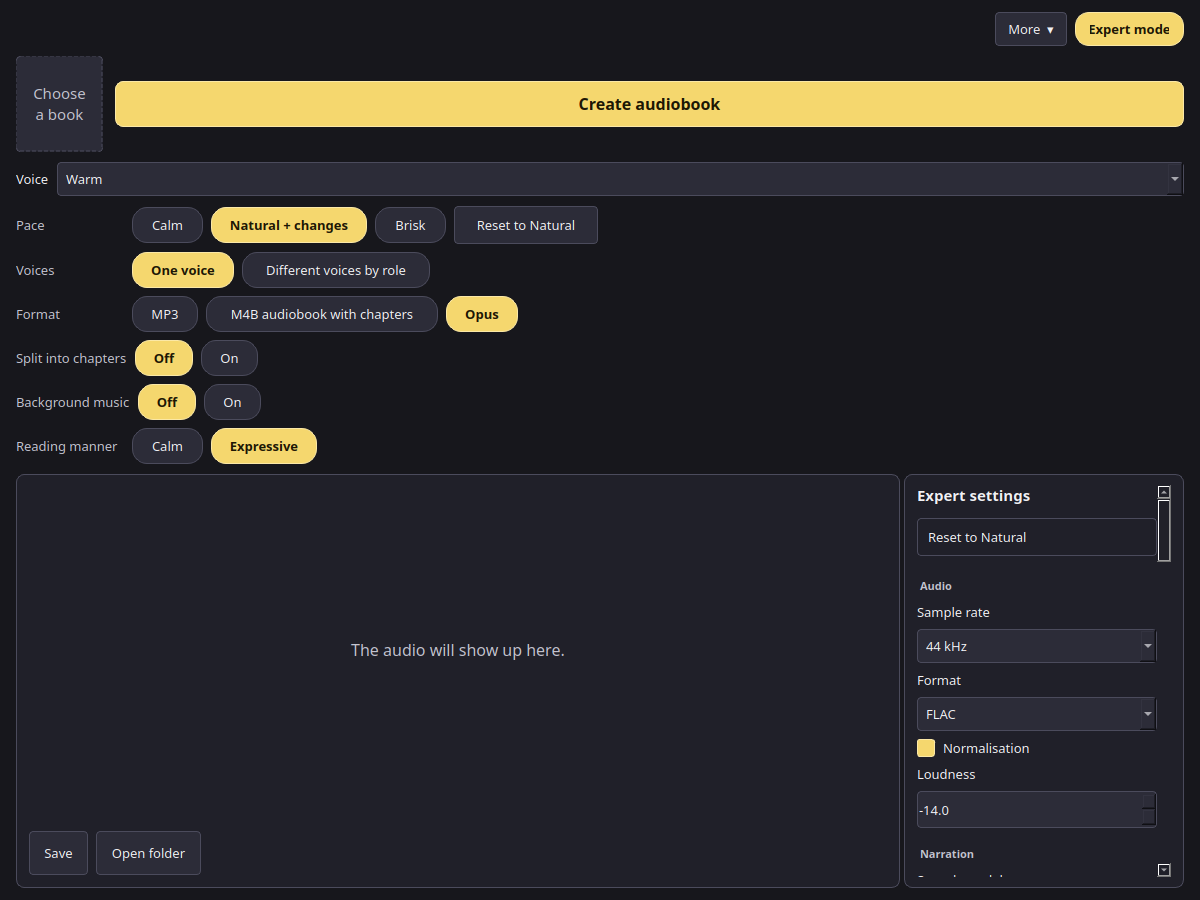
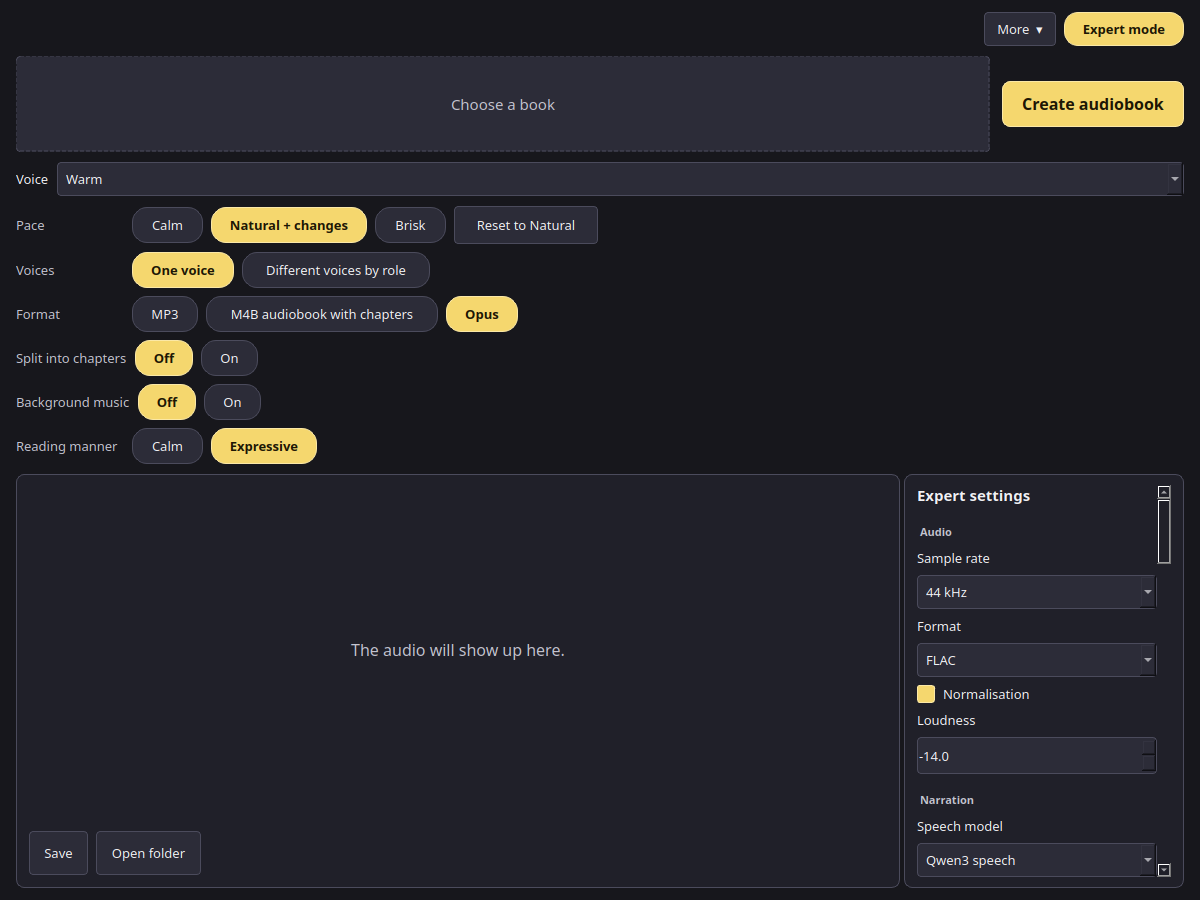
Keep the voice list, book drop, and expert toggle fully visible.
The simple voice list stays as wide as its row, the book drop keeps one line, and the expert toggle is sized for its bold label. The expert panel keeps the pace reset and pads its scrollbar. The voice name sits in the consent group.

Changed region(s): [[0.0308, 0.0, 0.9867, 0.1867], [0.74, 0.5911, 0.8633, 0.9644]]

diff --git a/ui/shell_window.py b/ui/shell_window.py
@@ -22,6 +22,7 @@ from PySide6.QtWidgets import (
     QComboBox,
     QHBoxLayout,
     QLabel,
+    QLayout,
     QPushButton,
     QScrollArea,
     QSizePolicy,
@@ -55,10 +56,42 @@ MISSING_SHELL_API = ("set_voices", "input_path", "open_page", "pause")
 # Chip stylesheet padding is 14 px on each side. See QPushButton[chip="true"].
 _CHIP_PAD_X = 14
 _HISTORY_HEIGHT = 104
+_EXPERT_SCROLL_PAD = 18
+_DROP_TEXT_PX = 15
+_DROP_PAD_X = 16
 _EXPORT_SOURCES = ("narr.container", "narr.split_chapters", "narr.file")
 _EXPORT_ROWS = ("format", "chapters")
 
 _CATALOGS = Path(__file__).resolve().parent.parent / "locales" / "shell"
+
+
+def _layout_holding(layout: QLayout | None, widget: QWidget) -> QLayout | None:
+    """Return the nested box that contains ``widget``."""
+    if layout is None:
+        return None
+    for index in range(layout.count()):
+        item = layout.itemAt(index)
+        if item is None:
+            continue
+        if item.widget() is widget:
+            return layout
+        found = _layout_holding(item.layout(), widget)
+        if found is not None:
+            return found
+    return None
+
+
+def _remove_empty_layouts(layout: QLayout) -> None:
+    """Drop a box that no longer holds a widget. An empty voice row caps the book column."""
+    index = 0
+    while index < layout.count():
+        item = layout.itemAt(index)
+        sub = None if item is None else item.layout()
+        if sub is not None and sub.count() == 0:
+            layout.takeAt(index)
+            sub.deleteLater()
+            continue
+        index += 1
 
 
 class _Allow:
@@ -205,8 +238,14 @@ class AudiobookShell:
             self._fit_pills()
             self._fit_history()
             self._lift_voice()
+            self._fit_source_row()
             self._restack_expert()
             self._activate_voice()
+            self._hide_panel_resets()
+            QApplication.sendPostedEvents()
+            form = self.screen.root.findChild(QWidget, "expertForm")
+            if form is not None:
+                self._fill_expert_width(form)
         finally:
             self._painting = False
 
@@ -254,8 +293,15 @@ class AudiobookShell:
             if setting_id in _EXPORT_SOURCES:
                 self.screen._paint_expert()
 
+        refresh_resets = self.screen._refresh_resets
+
+        def refresh_and_hide() -> None:
+            refresh_resets()
+            self._hide_panel_resets()
+
         self.screen.set_expert = show_expert
         self.screen._on_expert_edit = on_expert_edit
+        self.screen._refresh_resets = refresh_and_hide
 
     def _adopt_saved_file(self) -> None:
         """Point the chips at a saved file when that file is one the chips can name."""
@@ -338,9 +384,70 @@ class AudiobookShell:
         layout.insertWidget(2, row)
 
     def _activate_voice(self) -> None:
+        """Hold the voice list to the free width of its row, and release that width when the window shrinks."""
         row = self.screen.root.findChild(QWidget, "voiceRow")
-        if row is not None and row.layout() is not None:
-            row.layout().activate()
+        if row is None or row.layout() is None:
+            return
+        layout = row.layout()
+        layout.activate()
+        voice = row.findChild(QComboBox, "voicePicker")
+        label = row.findChild(QLabel, "voiceLabel")
+        if voice is None:
+            return
+        label_width = 0 if label is None else label.sizeHint().width()
+        margins = layout.contentsMargins()
+        available = row.width() - label_width - layout.spacing() - margins.left() - margins.right()
+        if available < 80:
+            return
+        voice.setMaximumWidth(16777215)
+        voice.setMinimumWidth(available)
+        layout.activate()
+
+    def _fit_source_row(self) -> None:
+        """Give the book drop one line of text and the spare width beside Create audiobook."""
+        root = self.screen.root
+        drop = root.findChild(QLabel, "fileDrop")
+        if drop is None or root.layout() is None:
+            return
+        column = _layout_holding(root.layout(), drop)
+        if column is not None:
+            _remove_empty_layouts(column)
+            column.setSizeConstraint(QLayout.SizeConstraint.SetNoConstraint)
+            column.invalidate()
+        drop.setWordWrap(False)
+        font = QFont(drop.font())
+        font.setPixelSize(_DROP_TEXT_PX)
+        advance = QFontMetrics(font).horizontalAdvance(drop.text())
+        density = load_tokens().density
+        text_width = advance + _DROP_PAD_X * 2 + density.border_px * 2
+        button = root.findChild(QPushButton, "generate")
+        button_width = 148
+        if button is not None:
+            label = QFont(button.font())
+            label.setPixelSize(16)
+            label.setWeight(QFont.Weight.DemiBold)
+            button_width = max(QFontMetrics(label).horizontalAdvance(button.text()) + 40, 148)
+            button.setMinimumWidth(button_width)
+            button.setMaximumWidth(button_width)
+            policy = button.sizePolicy()
+            policy.setHorizontalPolicy(QSizePolicy.Policy.Maximum)
+            button.setSizePolicy(policy)
+        room = root.width() - button_width - 48
+        wanted = max(text_width, int(root.width() * 0.40))
+        if room >= text_width:
+            wanted = min(wanted, room)
+        drop.setMaximumWidth(16777215)
+        drop.setMinimumWidth(max(wanted, text_width))
+        drop.setSizePolicy(QSizePolicy.Policy.Expanding, QSizePolicy.Policy.Preferred)
+        root.layout().activate()
+
+    def _hide_panel_resets(self) -> None:
+        """Keep the one reset that already sits beside the pace chips."""
+        host = self.screen.root.findChild(QWidget, "expertResets")
+        if host is None:
+            return
+        host.hide()
+        host.setMaximumHeight(0)
 
     def _restack_expert(self) -> None:
         """One label, then one control, in each expert row, inside the scroll panel."""
@@ -376,6 +483,7 @@ class AudiobookShell:
                 layout.insertWidget(index, widget)
                 index += 1
         layout.setSpacing(8)
+        layout.setContentsMargins(0, 0, _EXPERT_SCROLL_PAD, 0)
         if form.width() < 80:
             form.resize(240, max(form.height(), 1))
         policy = form.sizePolicy()
@@ -393,6 +501,7 @@ class AudiobookShell:
         if hint > 0:
             form.setMinimumHeight(hint)
         self._watch_expert_width(form)
+        self._fill_expert_width(form)
         layout.activate()
         form.updateGeometry()
 
@@ -417,7 +526,10 @@ class AudiobookShell:
         layout = form.layout()
         if layout is None or form.width() < 40:
             return
-        width = form.width()
+        margins = layout.contentsMargins()
+        width = form.width() - margins.left() - margins.right()
+        if width < 40:
+            return
         for index in range(layout.count()):
             item = layout.itemAt(index)
             widget = None if item is None else item.widget()
@@ -425,6 +537,7 @@ class AudiobookShell:
                 continue
             widget.setMaximumWidth(16777215)
             widget.setMinimumWidth(width)
+            widget.setMaximumWidth(width)
             widget.setSizePolicy(QSizePolicy.Policy.Expanding, widget.sizePolicy().verticalPolicy())
         layout.activate()
 
@@ -432,7 +545,8 @@ class AudiobookShell:
         density = load_tokens().density
         pad = _CHIP_PAD_X * 2 + density.border_px * 2 + 8
         for button in self.screen.root.findChildren(QPushButton):
-            if button.property("chip") != "true" and not str(button.objectName()).startswith("reset-"):
+            name = str(button.objectName())
+            if button.property("chip") != "true" and not name.startswith("reset-") and name != "expertToggle":
                 continue
             text = button.text()
             if not text:
@@ -442,6 +556,9 @@ class AudiobookShell:
             font.setWeight(QFont.Weight.DemiBold)
             advance = QFontMetrics(font).horizontalAdvance(text)
             button.setMinimumWidth(max(advance + pad, 36))
+            hint = button.sizeHint().width()
+            if hint > button.minimumWidth():
+                button.setMinimumWidth(hint)
 
     def _fit_history(self) -> None:
         strip = self.screen.root.findChild(QScrollArea, "historyStrip")

diff --git a/tests/test_shell_window.py b/tests/test_shell_window.py
@@ -362,6 +362,39 @@ def _sibling_overlaps(root: QWidget) -> list[tuple[str, str, QRect]]:
     return hits
 
 
+def _assert_labels_fit(root: QWidget, language: str, width: int, mode: str) -> None:
+    density = load_tokens().density
+    pad = 14 * 2 + density.border_px * 2 + 8
+    for button in root.findChildren(QPushButton):
+        name = button.objectName()
+        chip = button.property("chip") == "true" or name.startswith("reset-") or name == "expertToggle"
+        if not chip or not button.isVisible() or not button.text():
+            continue
+        assert button.width() + 1 >= button.sizeHint().width(), (
+            language, width, mode, name, button.text(), button.width(), button.sizeHint().width(),
+        )
+        font = QFont(button.font())
+        font.setPixelSize(density.body_px)
+        font.setWeight(QFont.Weight.DemiBold)
+        needed = QFontMetrics(font).horizontalAdvance(button.text()) + pad
+        assert button.width() >= needed, (language, width, mode, name, button.text(), button.width(), needed)
+
+
+def _assert_source_row(window: AudiobookShell, language: str, width: int, mode: str) -> None:
+    drop = window.widget.findChild(QLabel, "fileDrop")
+    assert drop is not None and drop.isVisible()
+    assert drop.wordWrap() is False
+    assert drop.width() >= int(width * 0.35), (language, width, mode, drop.width())
+    font = QFont(drop.font())
+    font.setPixelSize(15)
+    advance = QFontMetrics(font).horizontalAdvance(drop.text())
+    assert drop.width() >= advance + 32, (language, width, mode, drop.text(), drop.width(), advance)
+    voice = window.widget.findChild(QComboBox, "voicePicker")
+    assert voice is not None and voice.width() >= int(width * 0.55), (
+        language, width, mode, None if voice is None else voice.width(),
+    )
+
+
 def test_simple_and_expert_rows_do_not_overlap(app):
     for language in ("en", "ru", "de"):
         for width in (960, 1200):
@@ -370,13 +403,35 @@ def test_simple_and_expert_rows_do_not_overlap(app):
             QApplication.processEvents()
             hits = _sibling_overlaps(window.widget)
             assert hits == [], (language, width, "simple", hits[:4])
-            voice = window.widget.findChild(QComboBox, "voicePicker")
-            assert voice is not None and voice.width() >= 200, (language, width, None if voice is None else voice.width())
+            _assert_labels_fit(window.widget, language, width, "simple")
+            _assert_source_row(window, language, width, "simple")
             window.screen.set_expert(True)
+            window.layout.set_value("audio.loudness", -14.0)
+            window.screen.refresh()
             window.widget.resize(width, 900)
             QApplication.processEvents()
             hits = _sibling_overlaps(window.widget)
             assert hits == [], (language, width, "expert", hits[:4])
-            voice = window.widget.findChild(QComboBox, "voicePicker")
-            assert voice is not None and voice.width() >= 200, (language, width, voice.width())
+            _assert_labels_fit(window.widget, language, width, "expert")
+            _assert_source_row(window, language, width, "expert")
+            form = window.widget.findChild(QWidget, "expertForm")
+            assert form is not None and form.layout() is not None
+            assert form.layout().contentsMargins().right() >= 16
+            rightmost = 0
+            for child in form.findChildren(QWidget):
+                if child.parentWidget() is not form or not child.isVisible() or child.width() <= 2:
+                    continue
+                rightmost = max(rightmost, child.geometry().right())
+            assert rightmost <= form.width() - 12, (language, width, rightmost, form.width())
+            expert_voice = form.findChild(QComboBox, "narr.tts")
+            assert expert_voice is not None
+            assert expert_voice.width() >= form.width() - 40, (
+                language, width, expert_voice.width(), form.width(),
+            )
+            panel_resets = [
+                button for button in window.widget.findChildren(QPushButton, "expertReset") if button.isVisible()
+            ]
+            assert panel_resets == [], (language, width, [button.text() for button in panel_resets])
+            pace = window.widget.findChild(QPushButton, "reset-pace")
+            assert pace is not None and pace.isVisible()
             window.widget.close()

diff --git a/ui/main_window.py b/ui/main_window.py
@@ -625,6 +625,9 @@ class MainWindow(QWidget):
         self.chk_consent_clip = QCheckBox()
         self.chk_consent_clip.setChecked(True)
         cl2.addWidget(self.chk_consent_clip)
+        self.edt_voice_name = QLineEdit()
+        self.edt_voice_name.setMaxLength(80)
+        cl2.addWidget(self.edt_voice_name)
         self.consent_result = QWidget()           # shown after training: the detected scope for one-click confirmation
         rl = QVBoxLayout(self.consent_result)
         rl.setContentsMargins(0, 0, 0, 0)
@@ -642,10 +645,6 @@ class MainWindow(QWidget):
         self.consent_result.hide()
         cl2.addWidget(self.consent_result)
         root.addWidget(ccard)
-
-        self.edt_voice_name = QLineEdit()
-        self.edt_voice_name.setMaxLength(80)
-        root.addWidget(self.edt_voice_name)
 
         self.btn_lora = QPushButton()
         self.btn_lora.setObjectName("primary")

diff --git a/tests/test_ui.py b/tests/test_ui.py
@@ -91,7 +91,7 @@ def test_train_title_is_light_on_a_painted_background(app):
     assert w.more_box.isHidden()
     assert w.btn_preview.parentWidget() is w.more_box
     assert w.btn_merge.parentWidget() is w.more_box
-    assert w.edt_voice_name.parentWidget() is not w.more_box
+    assert w.edt_voice_name.parentWidget() is w.lbl_step3.parentWidget()
     assert w.lbl_consent.text() == "Voice owner's consent"
     w.close()
 

diff --git a/CHANGELOG.md b/CHANGELOG.md
@@ -9,6 +9,7 @@ The first pre-release is v0.1.0-beta; the sections below list the changes per re
 - **Shared UI shell (draft).** The simple screen keeps Choose a book, a full-width voice, and chips for pace, voices, format (MP3, M4B with chapter markers, Opus), split into chapters, background music, and reading manner, then Create audiobook. The chips write the same settings the expert panel shows. Language, text preparation, sound quality, the AI label, and the fine technical parameters stay expert fields. Expert rows are one label and one control, in titled sections, inside the scroll panel. The train window is three numbered groups: recording and text, quality, then consent, the voice name, and Train. Quick preview, compare, checks, voice details, and Build a voice for other apps stay under More options. Consent sentences are unchanged. Chips grow to fit Russian, English, and German. An empty history row stays hidden. The train window title stays light on the dark background. The window is the voxprint-common screen for `audiobook-builder`. The pin is `voxprint-common[ui] @ git+https://github.com/Mitroshenkov87/voxprint-common@f4e95ccfa25780abaf50412cb095a7843725102a` (`ui/shell-migration`). It switches to the release tag once that tag is cut. The 0.2.4 wheel and its SHA-256 stay in the lock's `suite` object for an installer that has no git pin. The rc.6 refusal to delete a shared root is unchanged. `docs/ui/FEATURE-MAP.md` lists every old-UI feature and every CLI feature. Nothing is dropped. Sections (Narrate, Voices, Roles, Re-voice) and the 3-step Train voice wizard are designed there; this pin does not have those pieces yet. Suite data follows that library: `~/.local/share/voxprint-ai-suite` on Linux and `%LOCALAPPDATA%\VOXPrint AI Suite` on Windows. A legacy `voxprint` / `Voxprint` folder is moved there on first use.
 
 ### Fixed
+- The simple screen keeps the voice list and the book drop zone wide enough for one line of text. The expert toggle fits its bold label. The expert panel keeps a single reset beside the pace chips and leaves room for its scrollbar. The voice name sits inside the consent group.
 - A CI installer built without a release tag embeds its manifest and installs the shell zip from the folder next to the setup file. It does not name a `v0.0.0-dev` release.
 - The fetch status file uses a private temporary name and retries a sharing violation. A status write cannot fail a download. When the model step fails, setup ends with exit code 1.
 - `--json` and the self-test result are UTF-8 even when Windows cannot change the console code page.
